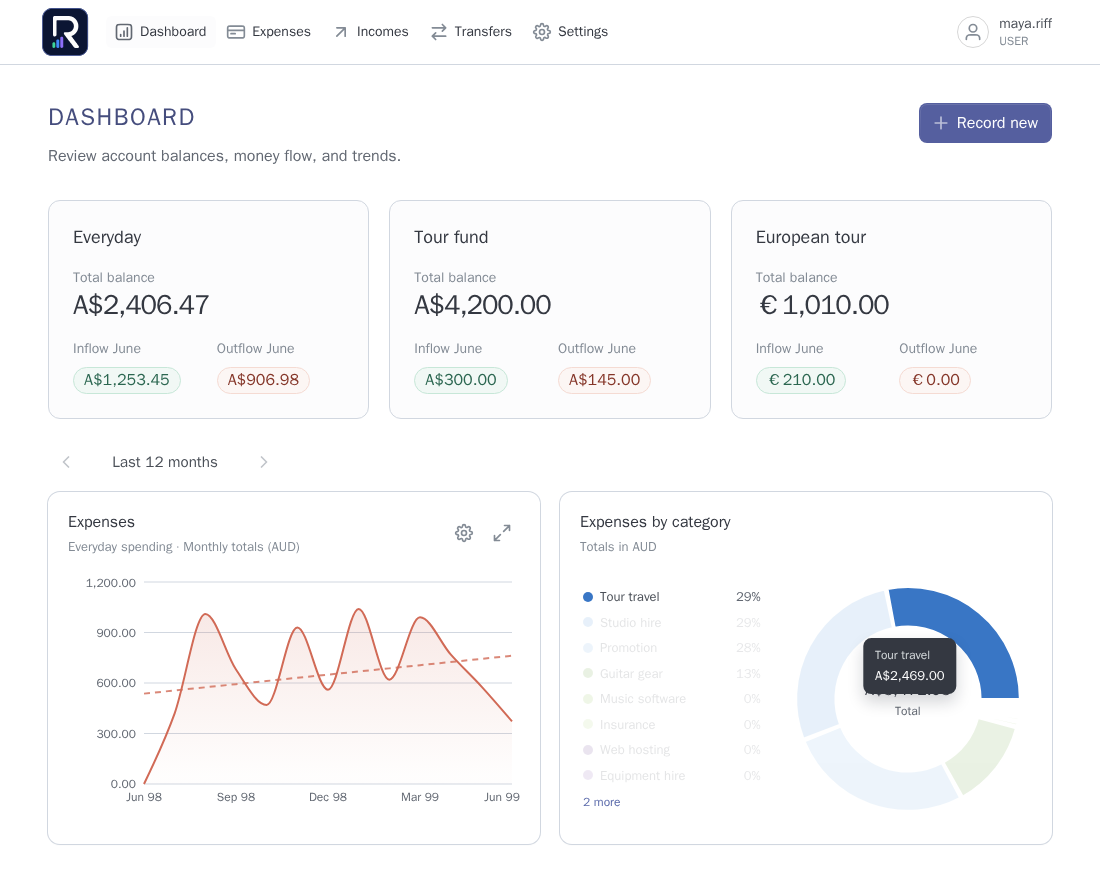
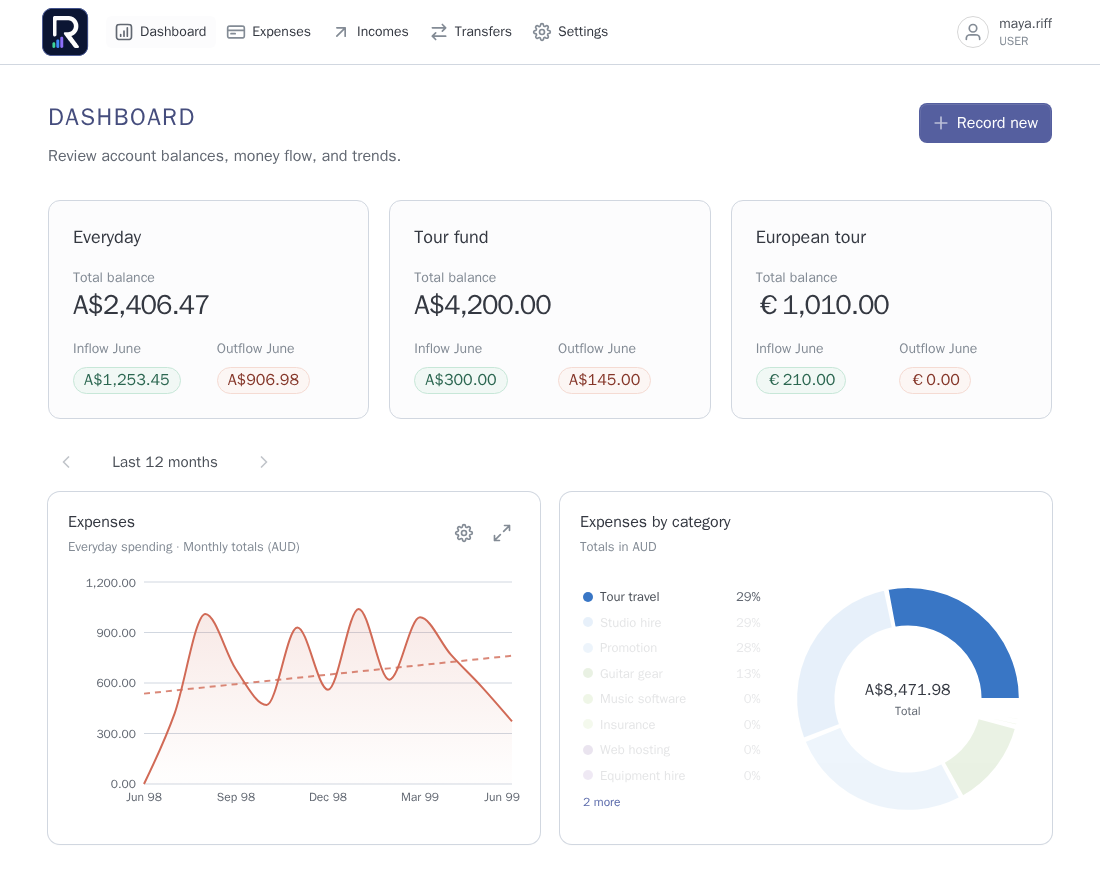
fix: ignore touch hover on category chart

Changed region(s): [[0.7727, 0.7097, 0.8964, 0.8023]]

diff --git a/src/test/kotlin/io/orangebuffalo/renalo/DashboardPagePlaywrightTest.kt b/src/test/kotlin/io/orangebuffalo/renalo/DashboardPagePlaywrightTest.kt
@@ -210,10 +210,17 @@ class DashboardPagePlaywrightTest : IntegrationTestSupport() {
         assertThat(chart.getByRole(AriaRole.BUTTON, Locator.GetByRoleOptions().setName("Hide Groceries"))).containsText("67%")
         val rentToggle = chart.getByRole(AriaRole.BUTTON, Locator.GetByRoleOptions().setName("Hide Rent"))
         assertThat(rentToggle).containsText("33%")
-        chart.locator(".recharts-pie-sector path").first().dispatchEvent("mouseover")
+        val groceriesSlice = chart.locator(".recharts-pie-sector path").first()
+        groceriesSlice.dispatchEvent("pointerover", mapOf("pointerType" to "touch"))
+        assertThat(chart.locator("[data-testid='expense-category-chart-row'][data-category-id='${groceries.id}']"))
+            .hasAttribute("data-highlighted", "false")
+        groceriesSlice.dispatchEvent("pointerover", mapOf("pointerType" to "mouse"))
         assertThat(chart.locator("[data-testid='expense-category-chart-row'][data-category-id='${groceries.id}']"))
             .hasAttribute("data-highlighted", "true")
         assertThat(chart.locator("[data-testid='expense-category-chart-row'][data-category-id='${rent.id}']"))
+            .hasAttribute("data-highlighted", "false")
+        groceriesSlice.dispatchEvent("pointerout", mapOf("pointerType" to "mouse"))
+        assertThat(chart.locator("[data-testid='expense-category-chart-row'][data-category-id='${groceries.id}']"))
             .hasAttribute("data-highlighted", "false")
         rentToggle.click()
         page.shouldEventuallyContainExpenseCategoryRows(

diff --git a/ui/src/components/charts/ExpenseByCategoryChart.tsx b/ui/src/components/charts/ExpenseByCategoryChart.tsx
@@ -192,10 +192,6 @@ export function ExpenseByCategoryChart({
                     stroke="#ffffff"
                     strokeWidth={2}
                     isAnimationActive={false}
-                    onMouseEnter={(_, index) =>
-                      setHoveredCategoryId(visibleCategories[index]?.categoryId)
-                    }
-                    onMouseLeave={() => setHoveredCategoryId(undefined)}
                   >
                     {visibleCategories.map((category) => {
                       const originalIndex = categories.findIndex(
@@ -212,6 +208,16 @@ export function ExpenseByCategoryChart({
                               : dimmedOpacity
                           }
                           className="expense-category-slice"
+                          onPointerEnter={(event) => {
+                            if (event.pointerType === "mouse") {
+                              setHoveredCategoryId(category.categoryId);
+                            }
+                          }}
+                          onPointerLeave={(event) => {
+                            if (event.pointerType === "mouse") {
+                              setHoveredCategoryId(undefined);
+                            }
+                          }}
                         />
                       );
                     })}

diff --git a/src/test/kotlin/io/orangebuffalo/renalo/DocumentationScreenshotsPlaywrightTest.kt b/src/test/kotlin/io/orangebuffalo/renalo/DocumentationScreenshotsPlaywrightTest.kt
@@ -126,7 +126,8 @@ class DocumentationScreenshotsPlaywrightTest : IntegrationTestSupport() {
         page.locator("[data-testid='expense-category-chart']").scrollIntoViewIfNeeded()
         page.waitForTimeout(1_600.0)
         val expenseCategoryChart = page.locator("[data-testid='expense-category-chart']")
-        expenseCategoryChart.locator(".recharts-pie-sector path").first().dispatchEvent("mouseover")
+        expenseCategoryChart.locator(".recharts-pie-sector path").first()
+            .dispatchEvent("pointerover", mapOf("pointerType" to "mouse"))
         assertThat(expenseCategoryChart.locator("[data-testid='expense-category-chart-row']").first())
             .hasAttribute("data-highlighted", "true")
         capture(page, layout, "27-dashboard-expenses-by-category")
